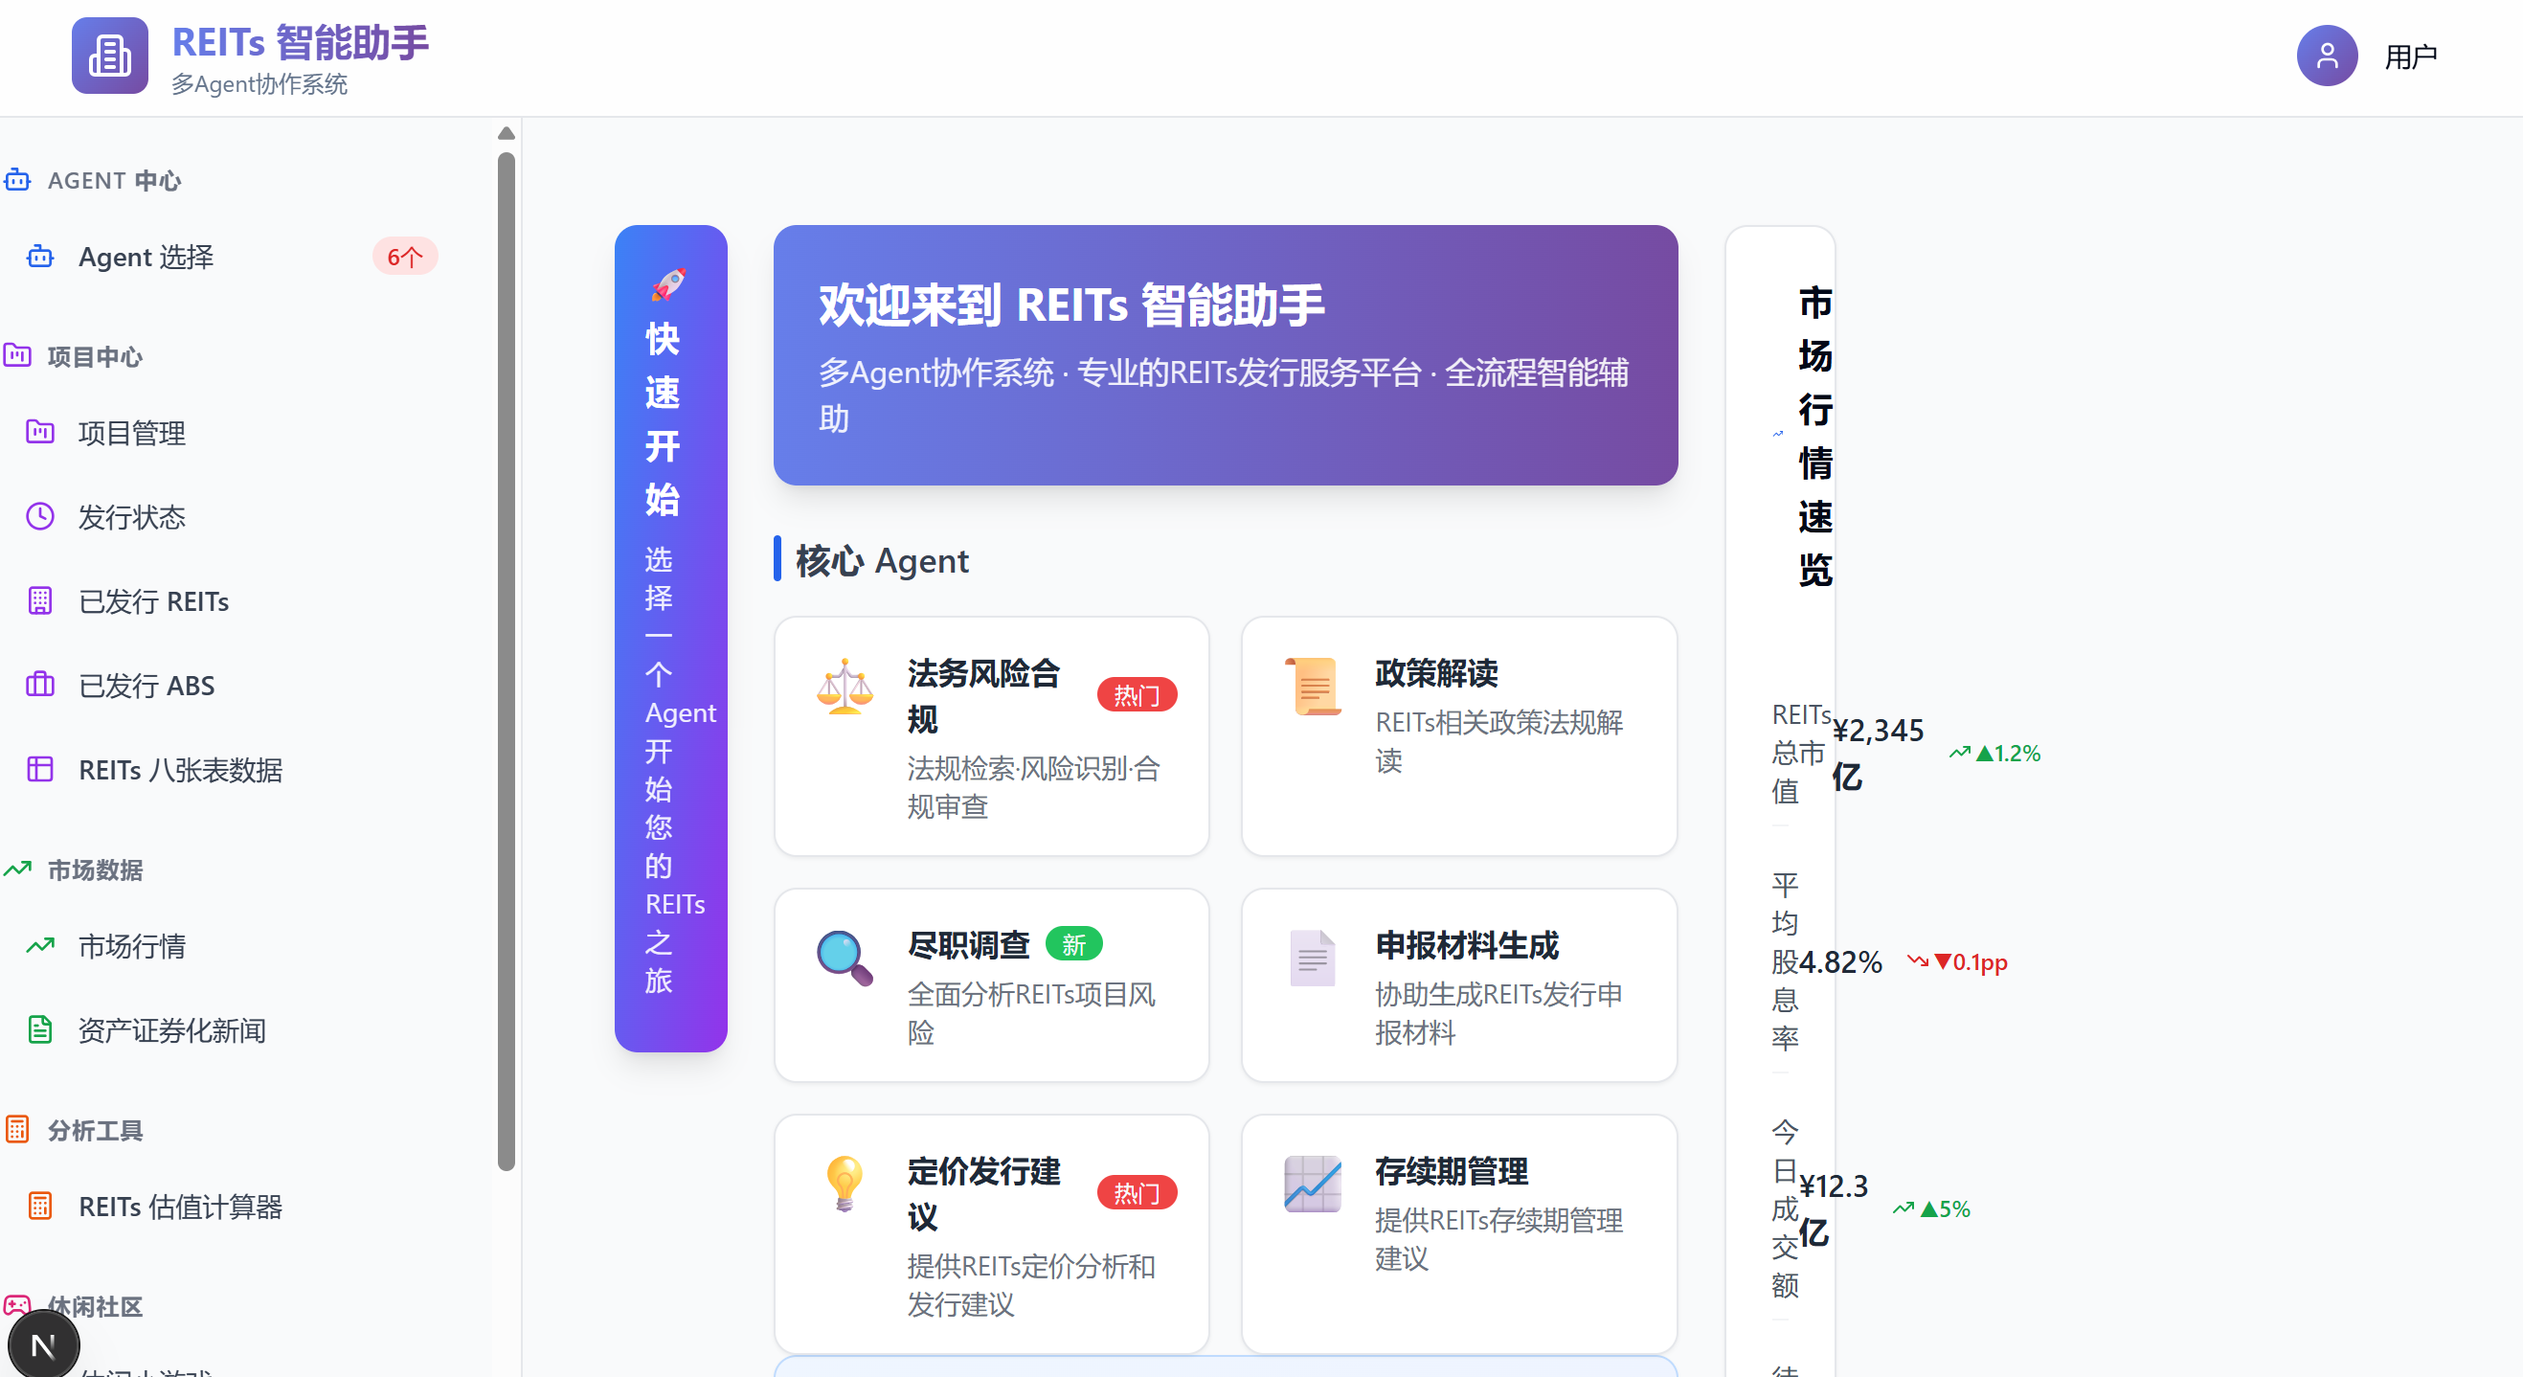
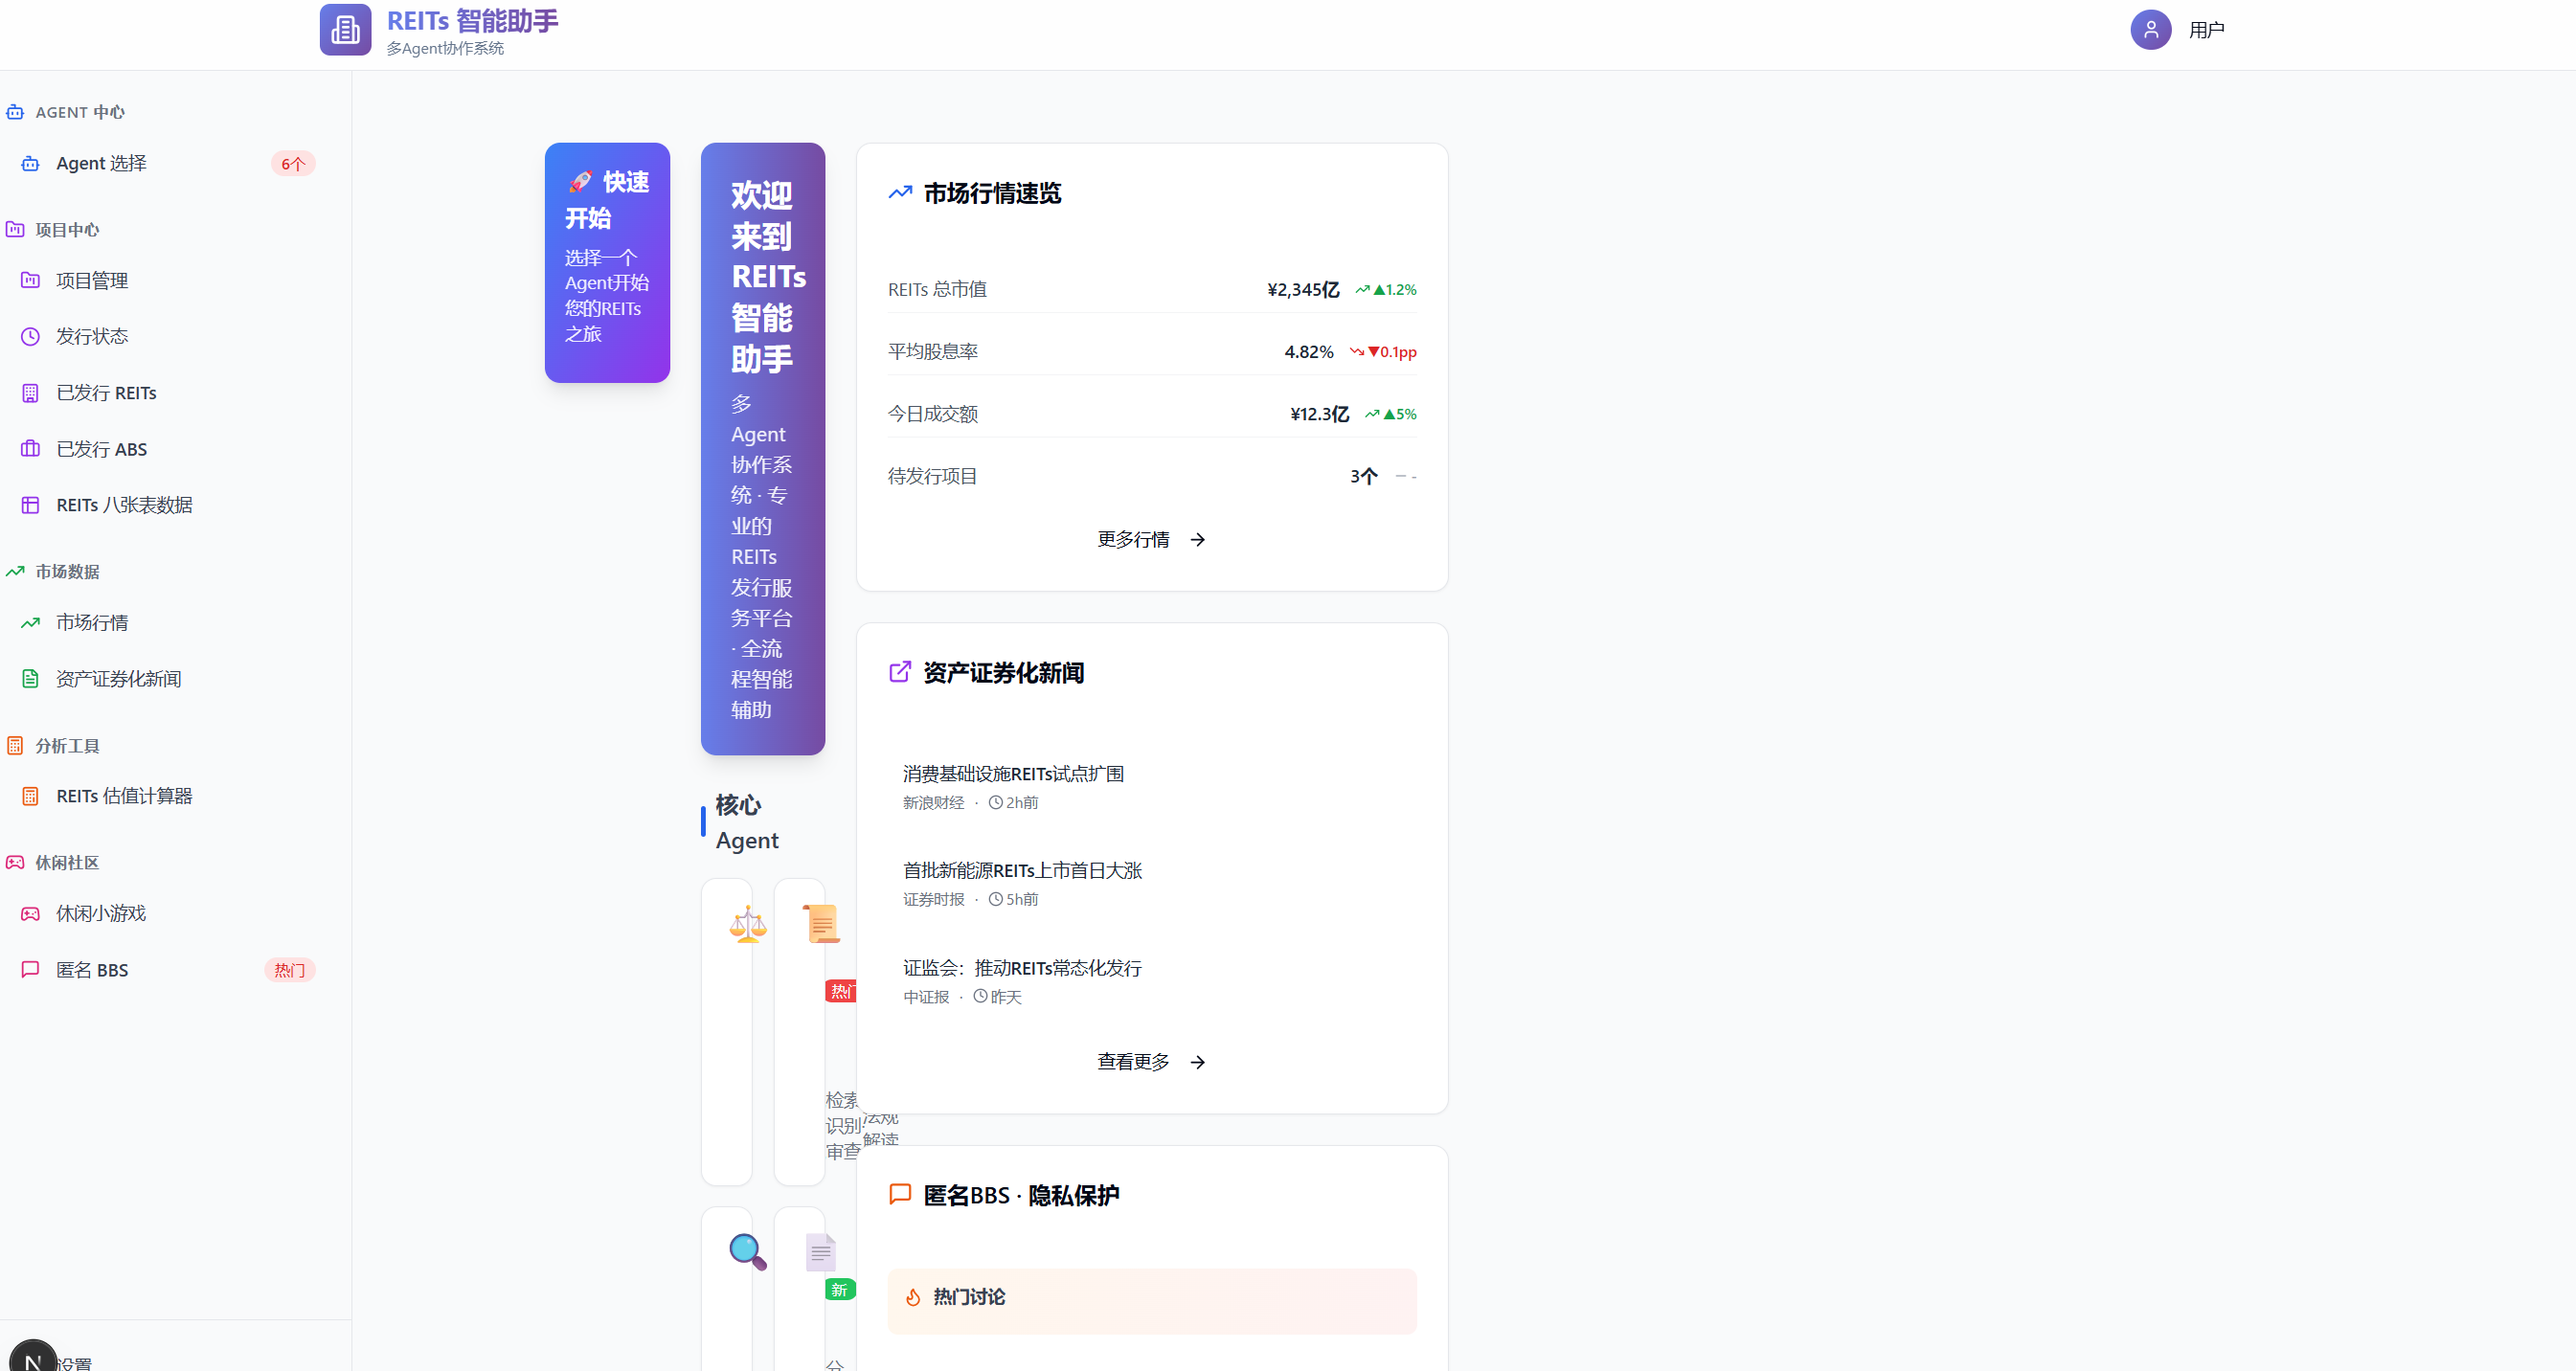
fix: 修复首页布局重叠问题，移除与侧边栏冲突的左侧区域

diff --git a/pages/index.tsx b/pages/index.tsx
@@ -51,24 +51,11 @@ const agents = [
 export default function Home() {
   return (
     <MainLayout>
-      {/* 三栏布局 */}
+      {/* 两栏布局：中间核心区 + 右侧信息区 */}
       <div className="min-h-[calc(100vh-4rem)]">
         <div className="grid grid-cols-1 lg:grid-cols-12 gap-6 p-6">
-          {/* 左侧导航区 - 约21% (2.5列) */}
-          <div className="hidden lg:block lg:col-span-2.5">
-            {/* 侧边栏在MainLayout中已经渲染，这里留空或可以添加快捷入口 */}
-            <div className="sticky top-6">
-              <div className="bg-gradient-to-br from-blue-500 to-purple-600 rounded-xl p-4 text-white mb-4 shadow-lg">
-                <h3 className="font-bold text-lg mb-2">🚀 快速开始</h3>
-                <p className="text-sm opacity-90 mb-3">
-                  选择一个Agent开始您的REITs之旅
-                </p>
-              </div>
-            </div>
-          </div>
-
-          {/* 中间核心区 - 约46% (5.5列) */}
-          <div className="col-span-1 lg:col-span-5.5 space-y-6">
+          {/* 中间核心区 - 约58% (7列) */}
+          <div className="col-span-1 lg:col-span-7 space-y-6">
             {/* 欢迎 banner */}
             <div className="bg-gradient-to-r from-[#667eea] to-[#764ba2] rounded-xl p-6 text-white shadow-lg">
               <h1 className="text-2xl font-bold mb-2">欢迎来到 REITs 智能助手</h1>
@@ -97,8 +84,8 @@ export default function Home() {
             <REITsTablePreview />
           </div>
 
-          {/* 右侧信息区 - 约33% (4列) */}
-          <div className="col-span-1 lg:col-span-4 space-y-6">
+          {/* 右侧信息区 - 约42% (5列) */}
+          <div className="col-span-1 lg:col-span-5 space-y-6">
             {/* 市场行情速览 */}
             <MarketOverview />
 
